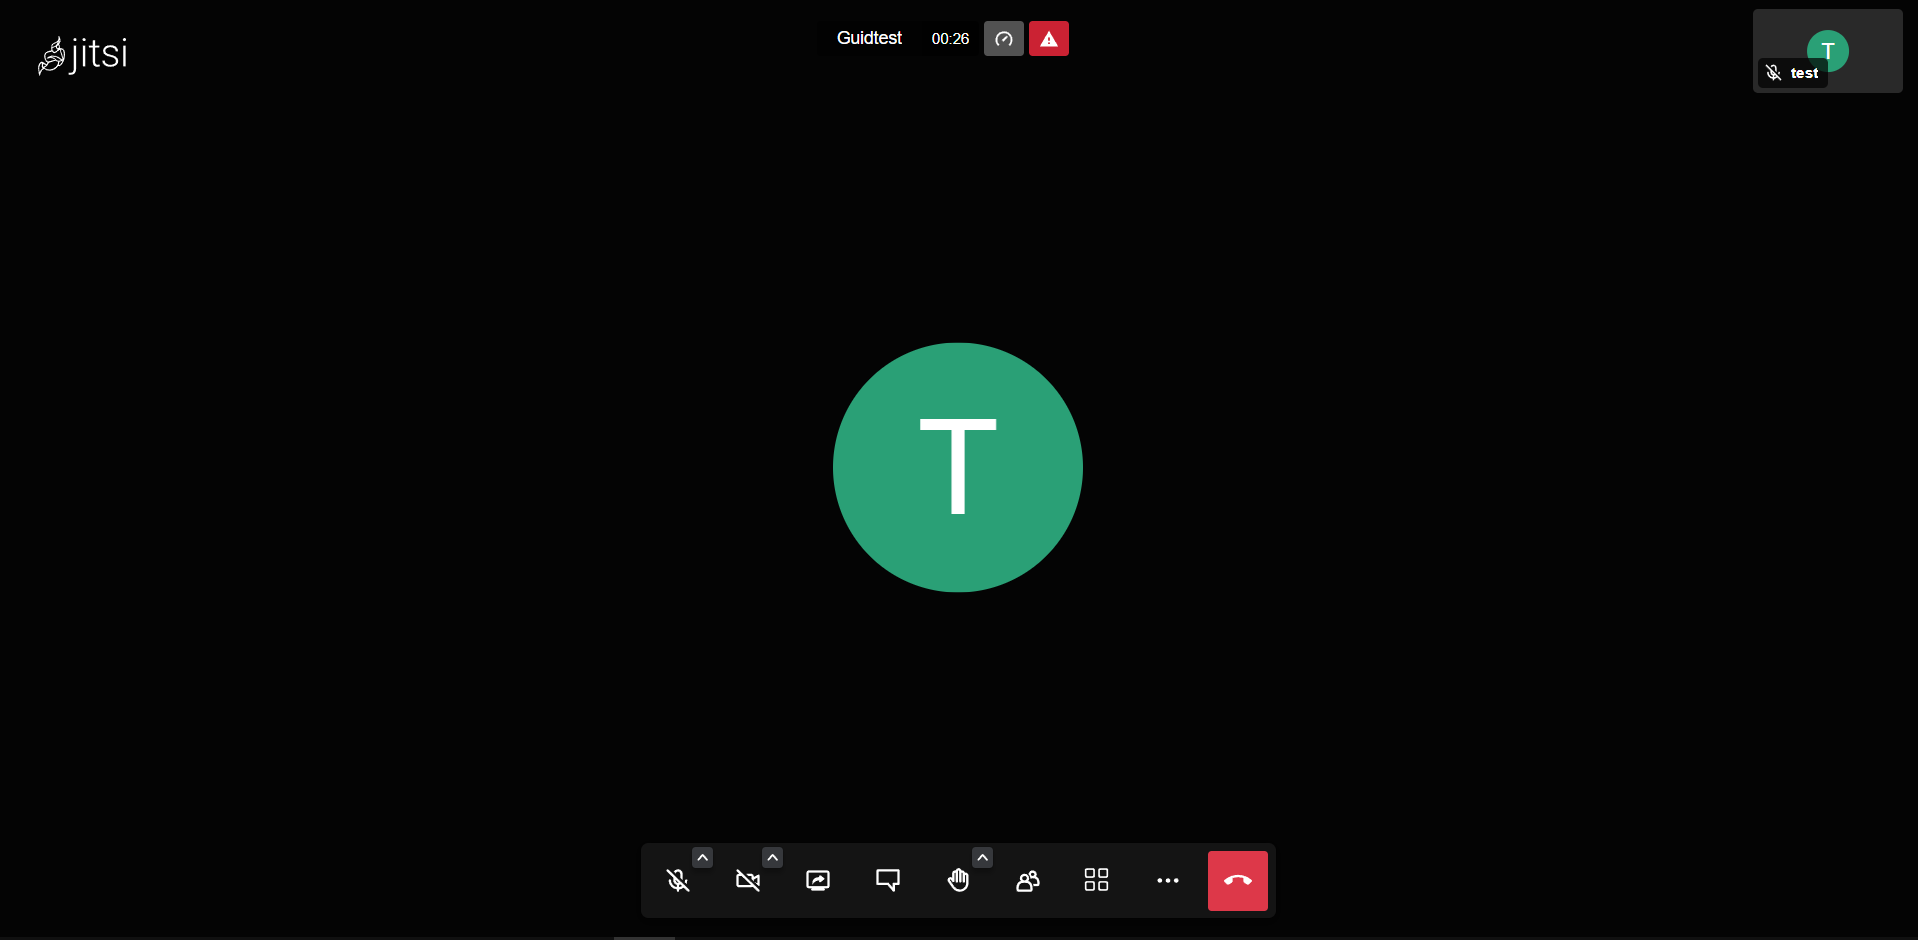
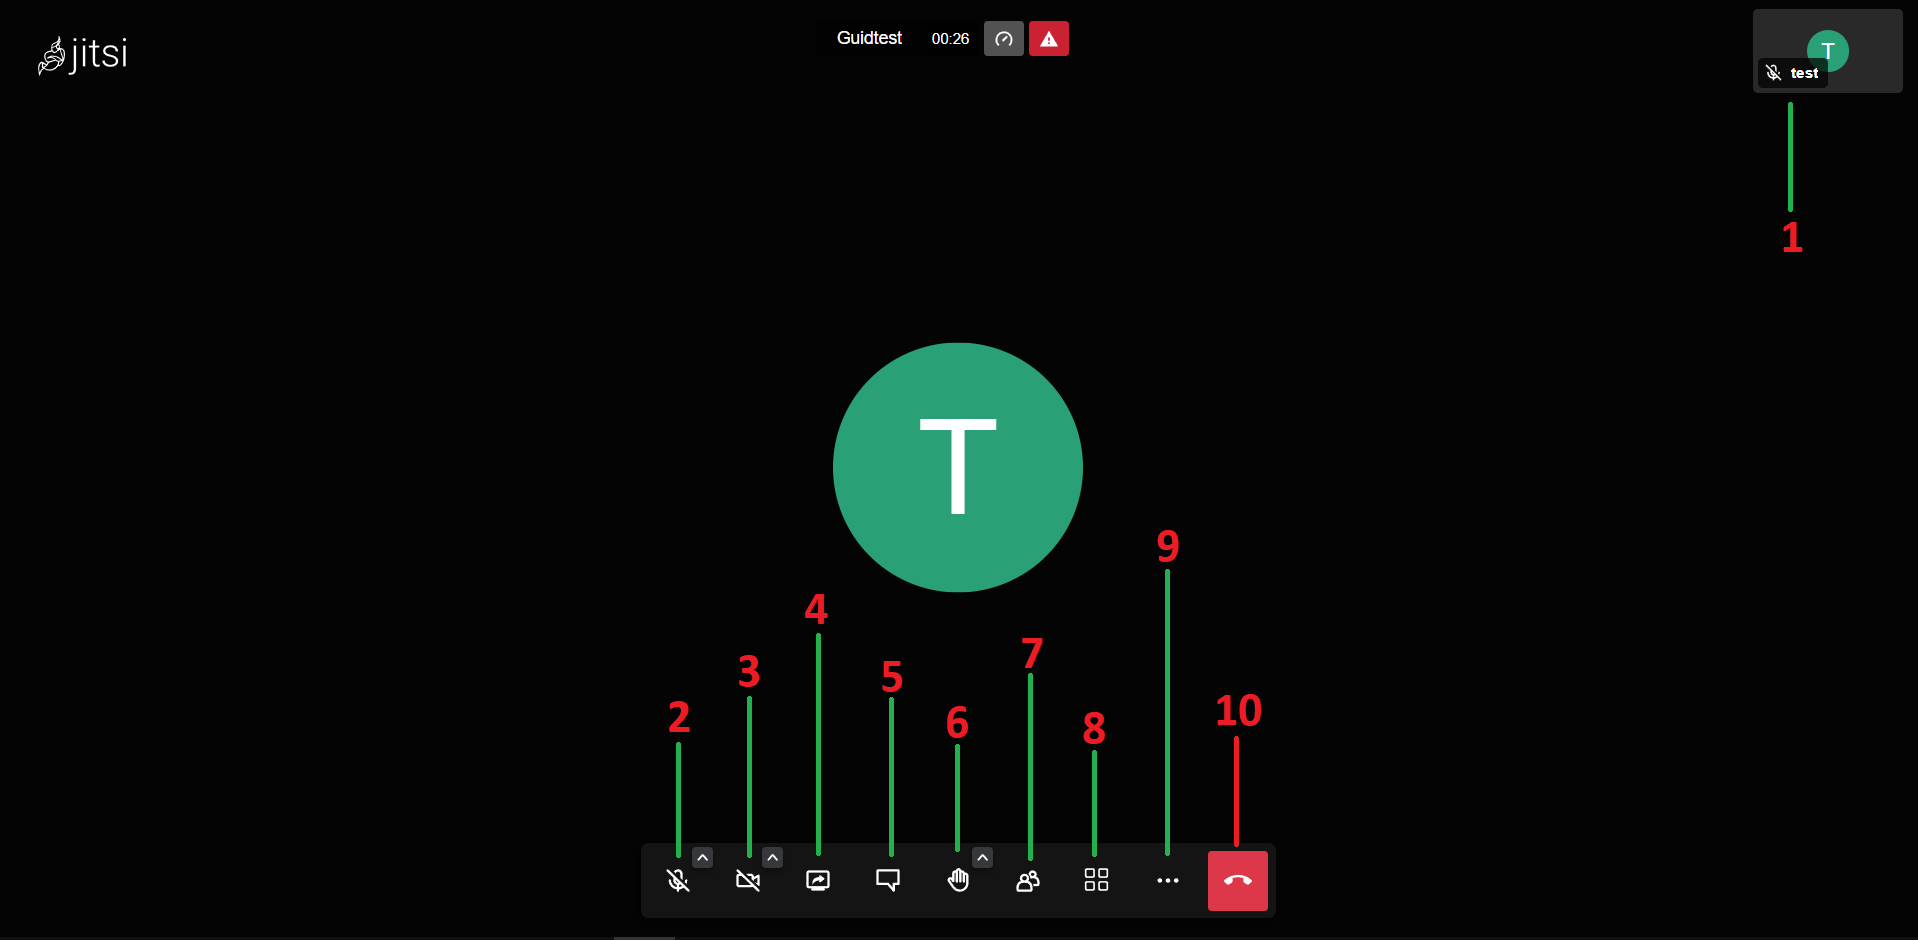
jitsi working

diff --git a/jitsi.html b/jitsi.html
@@ -92,42 +92,74 @@
                   <ul class="child-list">
                      <li>
                         عن طريق الرابط <span><a href="https://meet.jit.si/" target="_blank">هنا</a></span> <br />
-                        تظهر الصفحة التالية، نضغط على "Get Started"
-                        <img src='./assets/bitwardenImgs/create1.png' alt="one" /> <br />
+                        تظهر الصفحة التالية، نضغط على:
+                        <ul class="child-list">
+                           <li>نقوم بإدخال الاسم الخاص بالمكالمة أو الاجتماع الذي نريده، يمكن أن يكون أي اسم</li>
+                           <li>نضغط على بدأ الاتصال "Start Meeting"</li>
+                        </ul>
+                        <img src='./assets/jitsiImgs/img1.png' alt="one" /> <br />
                      </li>
                   </ul>
                </li>
-               <li>تظهر الصفحة التالية، نملأ الحقول كالتالي:<br>
-                  <ul class="child-list">
-                     <li>الايميل الشخصي</li>
-                     <li>الاسم</li>
-                     <li>كلمة السر الرئيسية</li>
-                     <li>تأكيد لكلمة السر الرئيسية مرة أخرى</li>
-                     <li>نكتب تلميح عن كلمة السر الرئيسية، مثلا: تلميح عن مكان حفظها في حالة نسيانها للعودة إليها</li>
-                     <li>نضغط على المربع لتظهر اشارة [㇢]</li>
-                     <li>نضغط "Create Account"</li>
-                  </ul>
-                  <img src='./assets/bitwardenImgs/create2.png' alt="two" />
+               <li>تظهر النافذة التالية في أعلى شمال الصفحة، نضغط على <span>"Allow"</span> وتعني السماح للموقع بالوصول
+                  إلى الكاميرا
+                  والمايكروفون لاتمام المكالمة <br />
+                  <img src="./assets/jitsiImgs/img2.png" alt="two">
                </li>
                <li>
                   تظهر الصفحة التالية: <br />
-                  نضغط على "Send Email" <span>لتأكيد الايميل الالكتروني</span> <br />
-                  <img src='./assets/bitwardenImgs/create3.png' alt="three" /> <br />
-                  <ul class="child-list"><span>- كيف يتم تأكيد الايميل الالكتروني؟</span>
-                     <li>عند الضغط على "Send Email" يتم إرسال بريد الكتروني إلى ايميلك الشخصي الذي أدخلته في الخطوة
-                        السابقة</li>
-                     <li>نفتح الايميل الشخصي ثم نضغط على البريد الوارد ونبحث عن رسالة بعنوان <span>"Bitwarden - Verify
-                           You Email"</span></li>
-                     <li>نفتح هذه الرسالة ونضغط على <span>"Verify Email Address Now"</span></li>
-                     <li>عند الضغط على <span>"Verify Email Address Now"</span> يتم تحويل الصفحة إلى صفحة تسجيل الدخول
-                        الخاصة بموقع بت فاردن</li>
-                     <li>نسجل الدخول بالايميل وكلمة السر الرئيسية اللذين تم إدخالهما في الخطوة الثانية
-                     </li>
+                  <ul class="child-list">
+                     <li>نقوم بادخال الاسم الذي نريد الظهور به في المكالمة أو الاجتماع</li>
+                     <li>نتأكد أن المايكروفون والكاميرا في حالة الإغلاق كما في الصورة</li>
+                     <li>نضغط على <span>"Join Meeting"</span> للانضمام إلى المكالمة</li>
+                     <img src='./assets/jitsiImgs/img3.png' alt="three" /> <br />
                   </ul>
                </li>
                <li>
-                  تظهر الصفحة التالية وتعني أنه <span>تم تفعيل وإنشاء</span> الحساب بنجاح <br />
-                  <img src='./assets/bitwardenImgs/create4.png' alt="four" /> <br />
+                  تظهر الصفحة التالية، وهي الواجهة الخاصة بالمكالمات في برنامج جيتسي <br />
+                  <img src=' ./assets/jitsiImgs/img4.png' alt="four" /> <br />
+               </li>
+               <li>نشرح في النقاط التالية أهم العناصر في هذه الواجهة <br />
+                  <ul class="child-list">
+                     <li>في حال أردنا أن نغير الاسم الذي نظهر به</li>
+                     <li>للتحكم بالمايكروفون، فتحه أو إغلاقه</li>
+                     <li>للتحكم بالكاميرا، فتحها أو إغلاقها</li>
+                     <li>لمشاركة الشاشة الخاصة بنا بحيث يراها كل من في هذه المكالمة أو الاجتماع</li>
+                     <li>لفتح قائمة المحادثة "شات" مع الأعضاء المتواجدين في المكالمة</li>
+                     <li>لرفع اليد أو طلب الإذن للتحدث</li>
+                     <li>لرؤية الأعضاء المتواجدين في المكالمة</li>
+                     <li>لإظهار الأعضاء المتواجدين في المكالمة</li>
+                     <li>
+                        عند الضغط على الثلاث نقاط تظهر القائمة التالية:
+                        <img src="./assets/jitsiImgs/img5.png" alt="five">
+                        <ul class="child-list">
+                           <li>"Invite People" لدعوة أشخاص جدد للمكالمة، عن طريق نسخ الليلنك كما في الصورة ثم إرساله لمن
+                              نريد<br />
+                           </li>
+                           <li>"Invite People" لدعوة أشخاص جدد للمكالمة، عن طريق نسخ الليلنك كما في الصورة ثم إرساله لمن
+                              نريد<br />
+                           </li>
+                           <li>"Invite People" لدعوة أشخاص جدد للمكالمة، عن طريق نسخ الليلنك كما في الصورة ثم إرساله لمن
+                              نريد<br />
+                           </li>
+                           <li>"Invite People" لدعوة أشخاص جدد للمكالمة، عن طريق نسخ الليلنك كما في الصورة ثم إرساله لمن
+                              نريد<br />
+                           </li>
+                           <li>"Invite People" لدعوة أشخاص جدد للمكالمة، عن طريق نسخ الليلنك كما في الصورة ثم إرساله لمن
+                              نريد<br />
+                           </li>
+                           <li>"Invite People" لدعوة أشخاص جدد للمكالمة، عن طريق نسخ الليلنك كما في الصورة ثم إرساله لمن
+                              نريد<br />
+                           </li>
+                           <li>"Invite People" لدعوة أشخاص جدد للمكالمة، عن طريق نسخ الليلنك كما في الصورة ثم إرساله لمن
+                              نريد<br />
+                           </li>
+                           <li>"Invite People" لدعوة أشخاص جدد للمكالمة، عن طريق نسخ الليلنك كما في الصورة ثم إرساله لمن
+                              نريد<br />
+                           </li>
+                        </ul>
+                     </li>
+                  </ul>
                </li>
             </ul>
          </div>
